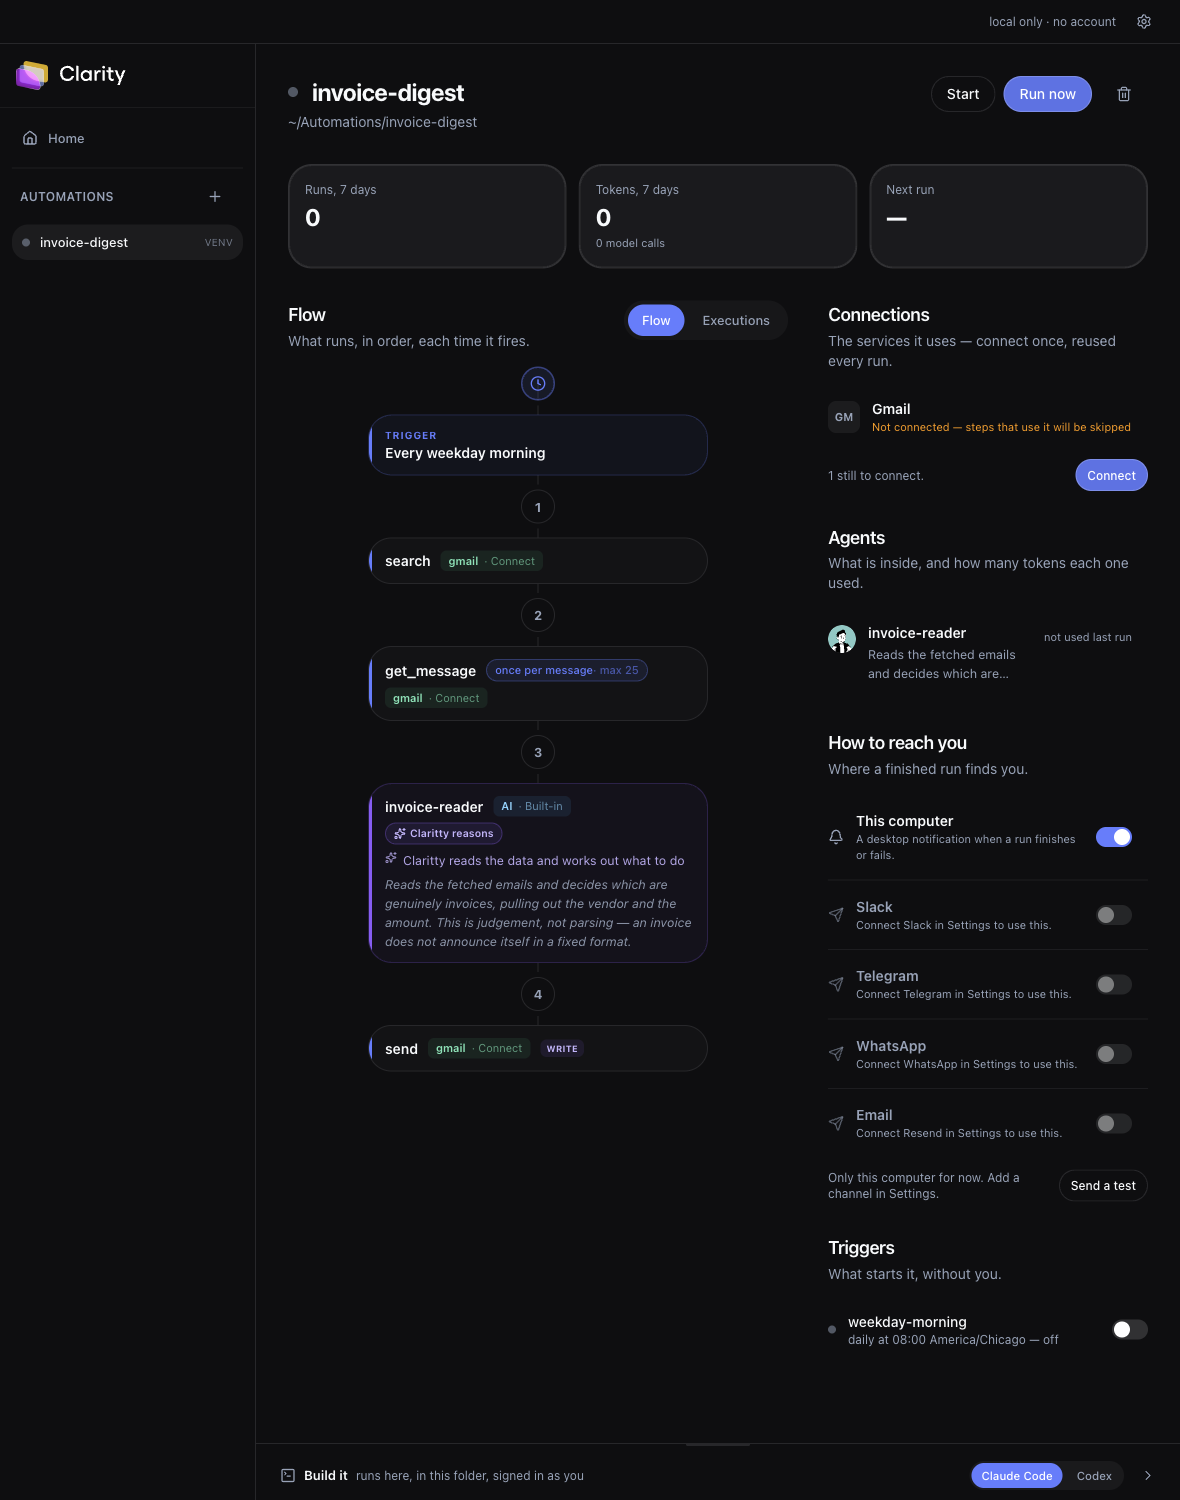
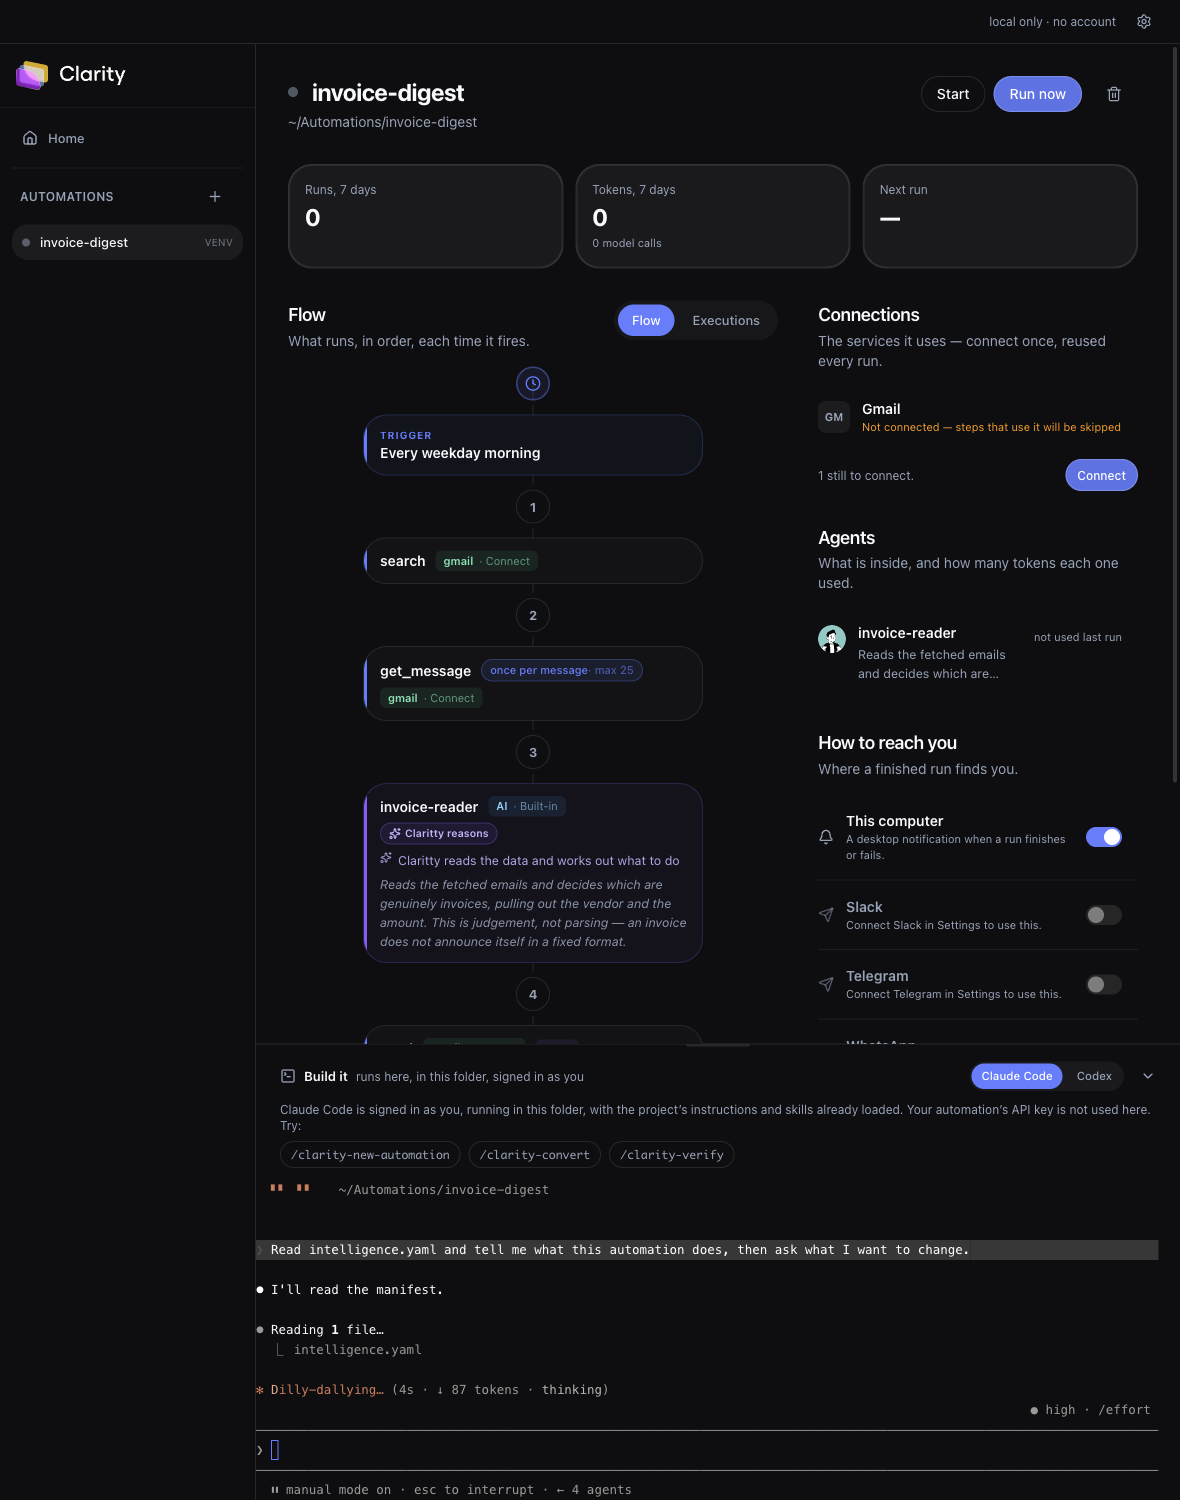
Screenshots that show the actual thing: the agent writing it
The shots script collapsed the terminal — my decision, commented "so the flow is
the subject rather than the shell" — which hid the one thing that makes Studio
different. A diagram on its own could be any workflow tool. The agent writing the
automation in the same window as the diagram it is changing IS the product.

Terminal open now, plus a shot of where it starts: saying in a sentence what you
want, which becomes the agent's opening instruction rather than a form to fill.

Two things had to be fixed for that shot to be usable, and both were real:

The first attempt filled two thirds of the frame with Claude Code's "is this a
project you trust?" dialog — a security prompt as the headline image. The script
now pre-trusts the fixture the way Studio does for folders it creates.

And it printed /Users/shaharcohen/ in the terminal banner. A published screenshot
must not carry anybody's home path; that was flagged here weeks ago about the
same class of leak. Past the trust prompt, Claude Code shows the tilde form, so
the frame reads ~/Automations/invoice-digest.

diff --git a/README.md b/README.md
@@ -26,7 +26,16 @@ dollar they spend.
 
 ---
 
+![Saying what it should do](docs/img/create.png)
+
+*Where it starts: a sentence about what you want. Claude Code takes that as its
+opening instruction and writes the automation — you are not filling in a form.*
+
 ![An automation in Studio](docs/img/automation.png)
+
+*The agent and the diagram in one window. It writes `intelligence.yaml`, the flow
+above redraws as it saves, and an **Updated** badge says so — no restart, no
+refresh. That loop is the product; a diagram on its own could be any workflow tool.*
 
 *A real automation: a weekday trigger, a Gmail search, a fan-out that hydrates each message
 (`once per message · max 25`), an agent that decides what counts as an invoice, and a send marked
